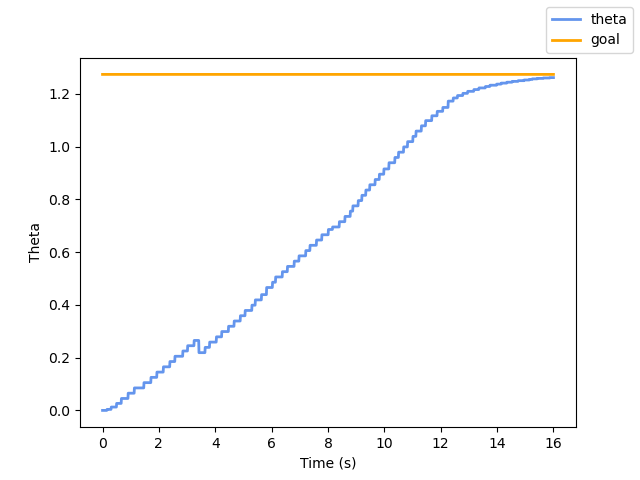
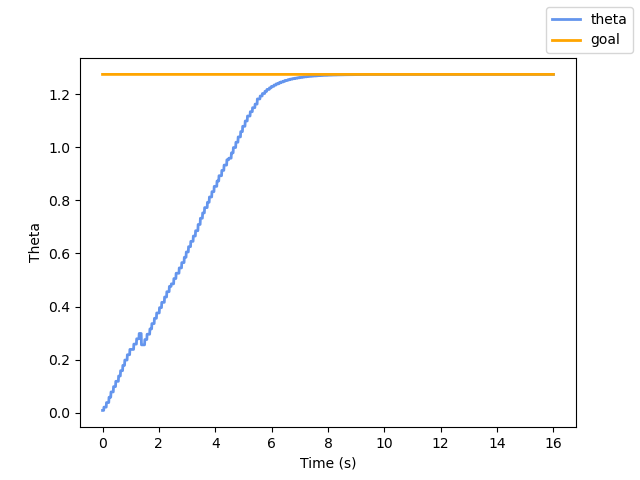
section 4

diff --git a/autonomy_repo/scripts/heading_controller.py b/autonomy_repo/scripts/heading_controller.py
@@ -8,13 +8,17 @@ from asl_tb3_msgs.msg import TurtleBotControl, TurtleBotState
 class HeadingController(BaseHeadingController):
     def __init__(self):
         super().__init__('heading_controller')
-        self.kp = 2.0
+        self.declare_parameter("kp", 2.0)
 
     def compute_control_with_goal(self, currState: TurtleBotState, desiredState: TurtleBotState) -> TurtleBotControl:
         head_error = wrap_angle(desiredState.theta - currState.theta)
         omega_control = (float) (self.kp * head_error)
         turtleBotMsg = TurtleBotControl(omega=omega_control)
         return turtleBotMsg
+    
+    @property
+    def kp(self) -> float:
+        return self.get_parameter("kp").value
 
 if __name__ == '__main__':
     rclpy.init()

diff --git a/autonomy_repo/scripts/p3_plot.py b/autonomy_repo/scripts/p3_plot.py
@@ -60,7 +60,7 @@ class PlottingNode(Node):
         ax.set_xlabel("Time (s)")
         ax.set_ylabel("Theta")
         fig.legend()
-        filename = Path("src/autonomy_repo/plots/p3_output.png")
+        filename = Path("src/aa274a_section2/autonomy_repo/plots/p3_output.png")
         try:
             fig.savefig(filename)  # save the figure to file
         except OSError as e:
